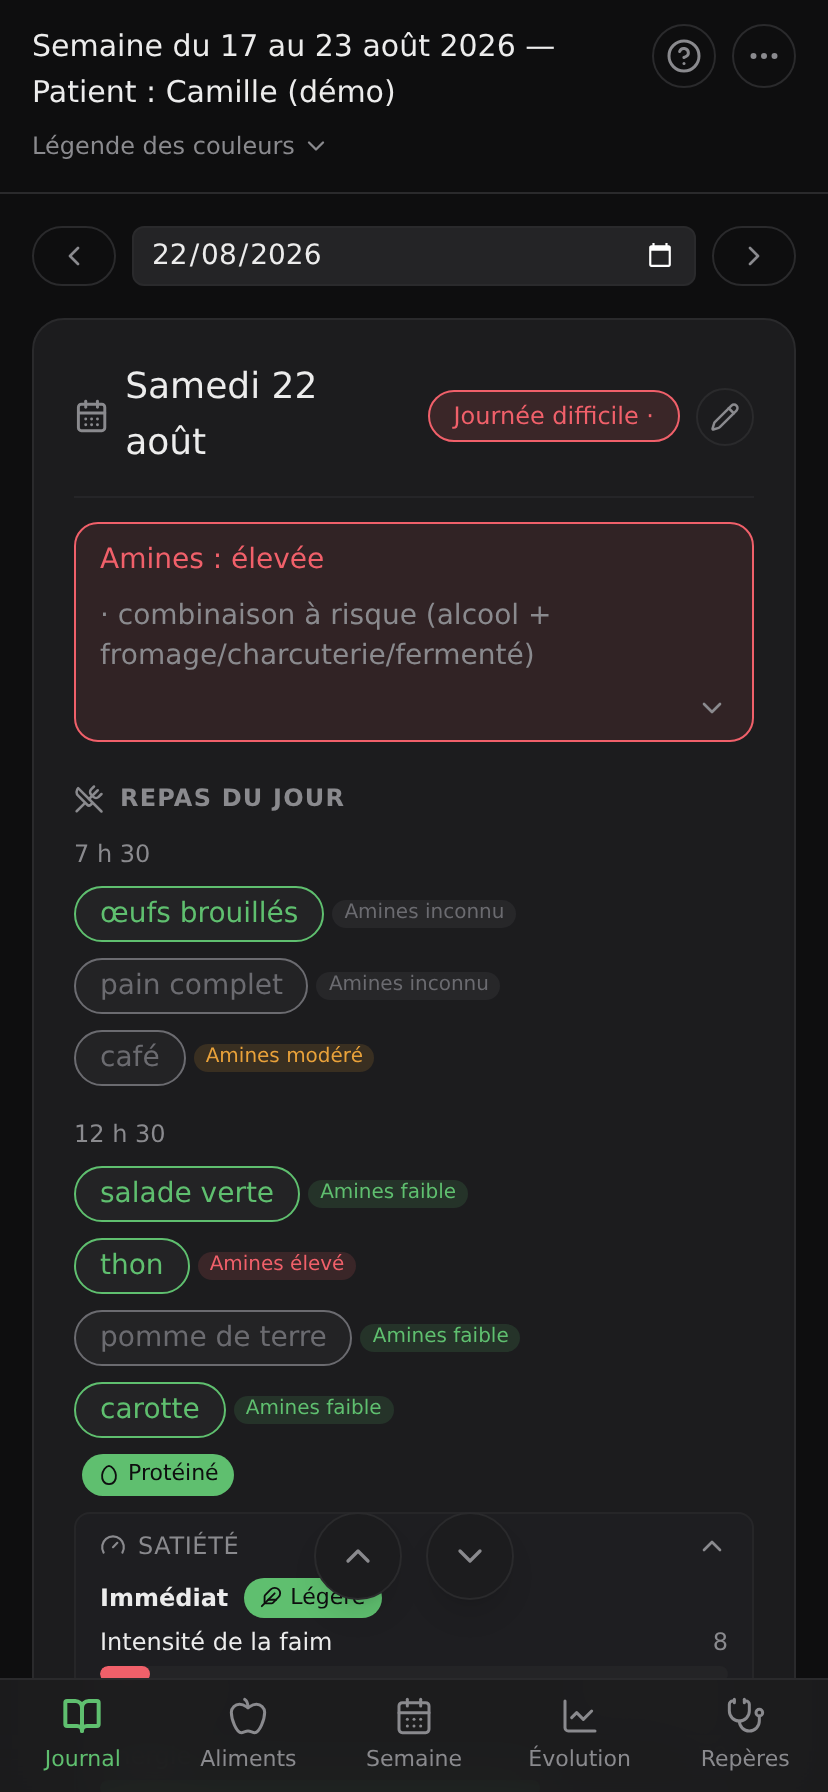
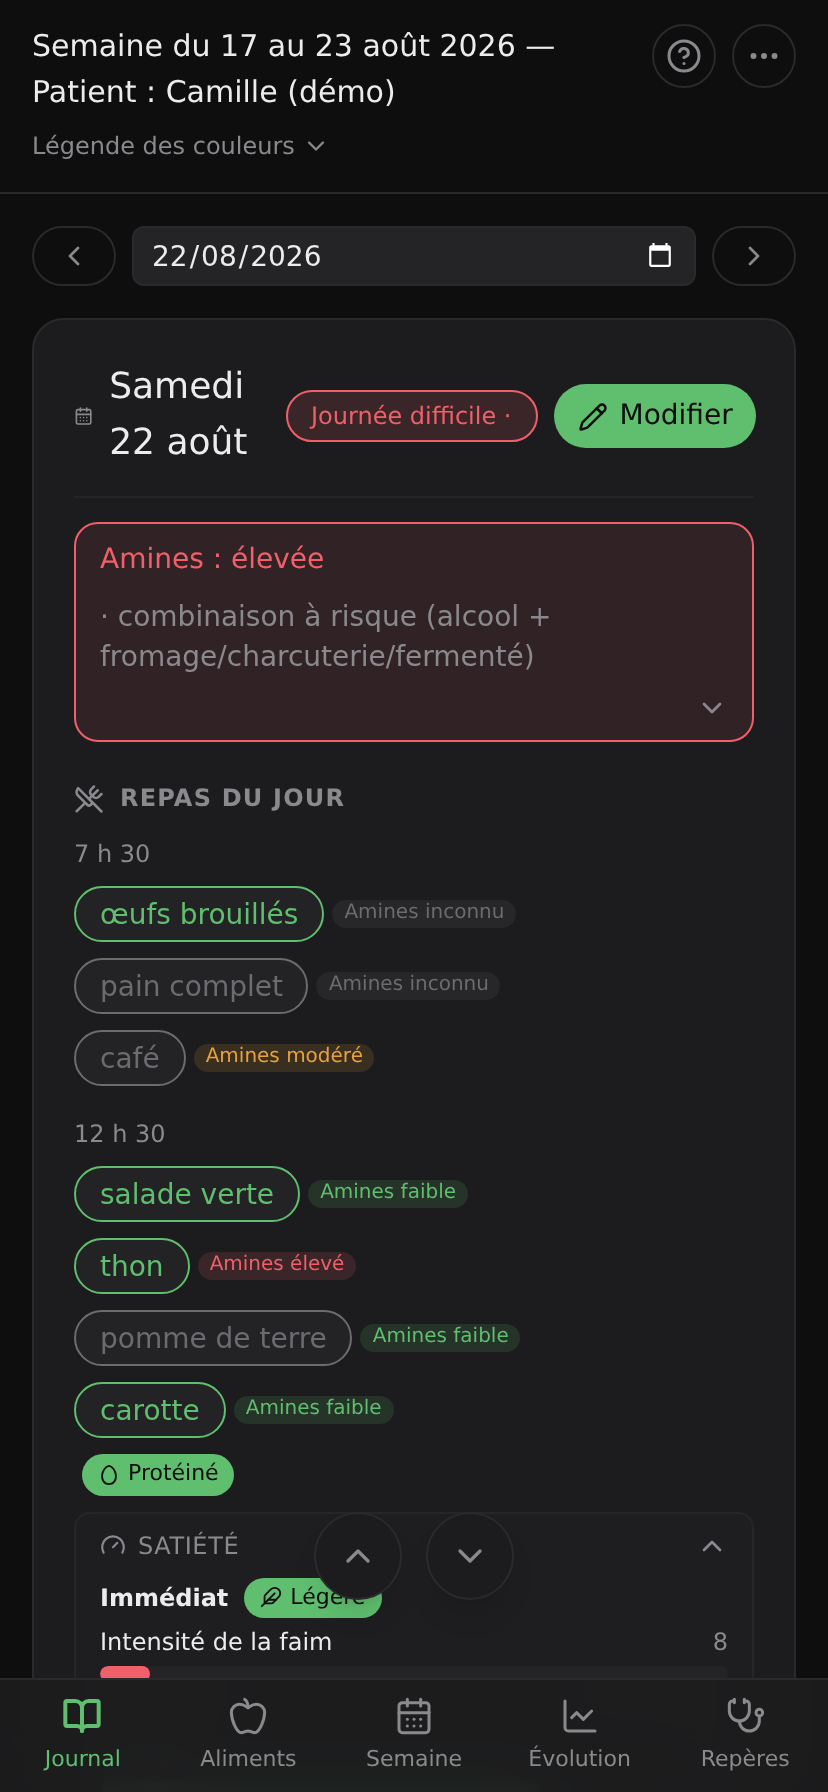
docs : couvre « Effacer le journal », les mises à jour et le bouton Modifier
Les 7 commits arrivés en parallèle du moteur documentaire n'étaient pas couverts,
et la FAQ affirmait le contraire de l'un d'eux.

- **FAQ — « Comment réinitialiser l'application ? »** répondait qu'il n'existe pas
  de bouton « tout effacer ». C'est faux depuis « Effacer le journal », et c'est
  une réponse dangereuse sur une action destructive. Remplacée par un tableau des
  trois niveaux : effacer le journal / recharger la démo / effacer les données du
  site, avec ce que chacun supprime réellement.
- **Effacer le journal** documenté (journées + analyses de journées + rapports de
  période ; profil, aliments, favoris, traitements, réintroductions et modèles
  conservés) : sauvegarde & restauration, données & confidentialité, menu du guide.
- **Mises à jour** : les trois déclencheurs (ouverture, revérification horaire,
  bouton « Vérifier les mises à jour »), les trois messages possibles, et où lire
  la version installée. Le dépannage commençait par « fermez l'application » alors
  qu'un bouton fait désormais exactement cela ; le support et le dépannage ne
  citent plus un numéro de version figé mais l'endroit où le lire.
- **Bouton « Modifier »** remplace le crayon dans toutes les procédures (guide du
  Journal, bien démarrer, fiche du journal quotidien).
- **Modèles de repas** : remplissage d'un repas déjà ouvert quelle que soit son
  heure (anti-doublon, heure conservée) et accès direct à « Modifier les modèles… ».
[…]

diff --git a/docs/troubleshooting/mise-a-jour-bloquee.md b/docs/troubleshooting/mise-a-jour-bloquee.md
@@ -7,21 +7,29 @@ figée dans une version antérieure.
 
 ## Causes possibles
 
-- Le service worker sert encore la version en cache : la nouvelle est téléchargée mais
-  ne s'active qu'au prochain **démarrage complet**.
-- L'application n'a jamais été fermée (onglet ou fenêtre maintenu ouvert).
+- L'application n'a pas encore revérifié : la vérification automatique a lieu à
+  l'ouverture, puis **toutes les heures** pour un onglet resté ouvert.
 - Pas de réseau depuis la publication de la nouvelle version.
+- Le service worker sert encore la version en cache.
 
 ## Diagnostic
 
-Comparez la version attendue avec celle de l'application. Vérifiez que vous avez été
-connecté au moins une fois depuis la publication.
+Ouvrez **Menu `⋯`** : la ligne au-dessus du bouton de mise à jour affiche la **version
+installée** et sa **date**. Comparez-la à la version attendue.
 
 ## Solution
 
-1. Fermez **complètement** l'application : toutes les fenêtres et tous les onglets, y
-   compris l'application installée sur l'écran d'accueil.
-2. Rouvrez-la avec une connexion active.
+1. **Menu `⋯` → Vérifier les mises à jour.** L'application répond :
+
+| Message | Sens |
+|---|---|
+| `Nouvelle version trouvée, installation…` | La mise à jour s'installe et s'applique seule |
+| `Vous avez déjà la dernière version.` | Rien à faire |
+| `Vérification indisponible (app non installée hors-ligne).` | Le service worker n'est pas actif — rechargez la page |
+
+2. Si cela ne suffit pas, fermez **complètement** l'application : toutes les fenêtres et
+   tous les onglets, y compris celle installée sur l'écran d'accueil, puis rouvrez-la
+   avec une connexion active.
 3. Si nécessaire, rechargez en forçant le contournement du cache
    (`Ctrl`/`Cmd` + `Maj` + `R` sur desktop).
 4. En dernier recours : effacez le cache du site **sans** effacer les données —

diff --git a/docs/getting-started/index.md b/docs/getting-started/index.md
@@ -96,7 +96,8 @@ Aucune permission n'est demandée au démarrage. Voir [Permissions](../permissio
 
 ## Première utilisation
 
-1. Onglet **Journal** → touchez le **crayon** en haut de la carte pour passer en édition.
+1. Onglet **Journal** → touchez le bouton vert **Modifier** en haut de la carte pour
+   passer en édition.
 2. **Ajouter un repas** → réglez l'heure, tapez un aliment puis `Entrée`.
    La couleur (🔴 pro‑candidose/SIBO, 🟢 bénéfique, ⚪ neutre) est devinée
    automatiquement et se change d'un toucher sur la chip.
@@ -113,11 +114,22 @@ Tout est enregistré automatiquement (pas de bouton « Enregistrer » pour le jo
 ## Mise à jour de l'application
 
 L'application se met à jour toute seule : le service worker télécharge la nouvelle
-version en arrière-plan et l'applique au prochain lancement complet
-(`registerType: 'autoUpdate'`). Vos données ne sont pas touchées par une mise à jour.
+version en arrière-plan et l'applique automatiquement. Vos données ne sont jamais
+touchées par une mise à jour.
 
-Si une nouvelle fonction annoncée n'apparaît pas : fermez complètement l'app puis
-rouvrez-la. Voir [Dépannage](../troubleshooting/mise-a-jour-bloquee.md).
+Trois déclencheurs :
+
+| Déclencheur | Quand |
+|---|---|
+| Ouverture de l'application | À chaque lancement |
+| Vérification périodique | Toutes les **heures**, pour un onglet resté ouvert longtemps |
+| **Menu `⋯` → Vérifier les mises à jour** | À votre demande |
+
+La ligne juste au-dessus de ce bouton affiche la **version installée** et sa **date de
+mise à jour** — utile pour vérifier que vous avez bien la dernière.
+
+Si une nouvelle fonction annoncée n'apparaît pas, voir
+[Dépannage](../troubleshooting/mise-a-jour-bloquee.md).
 
 ## Désinstallation
 

diff --git a/docs/versions/index.md b/docs/versions/index.md
@@ -15,6 +15,20 @@ Présent dans le code mais non encore publié sous un numéro de version :
 - **Récurrence des aliments** — tableau de l'écran Évolution sur une fenêtre glissante de
   30 jours (mentions, jours distincts, rythme, première → dernière date), avec regroupement
   des variantes proches. Voir [Récurrence des aliments](../features/recurrence-aliments.md).
+- **Effacer le journal** — Menu `⋯` : supprime toutes les journées et les analyses
+  associées, en conservant profil, aliments, favoris, traitements et modèles. Voir
+  [Sauvegarde & restauration](../features/sauvegarde-restauration.md#effacer-le-journal).
+- **Vérification des mises à jour** — version et date de mise à jour affichées dans le
+  menu, bouton **Vérifier les mises à jour**, et revérification automatique toutes les
+  heures pour un onglet resté ouvert. Voir
+  [Bien démarrer](../getting-started/index.md#mise-à-jour-de-lapplication).
+- **Bouton « Modifier » visible** dans le Journal, à la place du crayon discret.
+- **Modèles de repas** — un modèle peut désormais **remplir un repas déjà ouvert**, quelle
+  que soit son heure (sans dupliquer les aliments déjà présents), et la liste déroulante
+  donne un accès direct à **« Modifier les modèles… »**. Voir
+  [Modèles de repas](../features/modeles-de-repas.md).
+- **Documentation** — cette documentation et son moteur de génération
+  (`DOCUMENTATION_SPEC.md`, `docs/`, `npm run docs`).
 
 ---
 

diff --git a/docs/features/modeles-de-repas.md b/docs/features/modeles-de-repas.md
@@ -21,13 +21,23 @@ Aucun.
 - Depuis zéro : **Menu `⋯` → Modèles de repas** → nom du modèle, heure suggérée
   (facultative), aliments.
 
-**Utiliser un modèle** : Journal → mode édition → **Depuis un modèle** sous la section
-Repas → choisissez le modèle. Le repas est inséré avec des identifiants neufs : le
-modifier ensuite ne touche pas au modèle.
+**Créer un modèle** depuis un repas existant : en mode édition, le bouton
+**« Enregistrer comme modèle »** sous le repas.
+
+**Utiliser un modèle** — deux façons :
+
+| Voie | Effet |
+|---|---|
+| **Depuis un modèle**, sous la section Repas | Ajoute un **nouveau repas** à la journée, à l'heure suggérée du modèle |
+| **Depuis un modèle**, dans un repas déjà ouvert | **Remplit le repas courant** avec les aliments du modèle, **quelle que soit son heure**. L'heure du repas est conservée, et les aliments déjà présents ne sont pas dupliqués |
+
+Dans les deux cas, les aliments sont copiés avec des identifiants neufs : les modifier
+ensuite ne touche pas au modèle.
 
 ## Options
 
-- Modifier ou supprimer un modèle depuis **Menu `⋯` → Modèles de repas**.
+- Modifier ou supprimer un modèle depuis **Menu `⋯` → Modèles de repas**, ou directement
+  via **« Modifier les modèles… »** au bas de la liste déroulante « Depuis un modèle ».
 - Dans l'éditeur de modèle, un toucher sur une chip change sa catégorie de couleur.
 
 ## Paramètres associés

diff --git a/docs/reference/errors.md b/docs/reference/errors.md
@@ -80,6 +80,14 @@ Voir [Un import JSON est refusé](../troubleshooting/import-json-refuse.md).
 |---|---|---|
 | `Un problème est survenu au démarrage (tes données restent en sécurité). Détail : <nom> : <message>` | Erreur pendant l'initialisation de la base | [Erreur au démarrage](../troubleshooting/erreur-au-demarrage.md) |
 
+## Vérification des mises à jour
+
+| Message | Signification | Solution |
+|---|---|---|
+| `Nouvelle version trouvée, installation…` | Une mise à jour a été détectée ; elle s'installe et s'applique seule | Rien à faire |
+| `Vous avez déjà la dernière version.` | Aucune mise à jour disponible | Rien à faire |
+| `Vérification indisponible (app non installée hors-ligne).` | Le service worker n'est pas actif (page non rechargée depuis l'installation, ou navigateur sans service worker) | Rechargez la page ; voir [La mise à jour ne s'applique pas](../troubleshooting/mise-a-jour-bloquee.md) |
+
 ## Messages informatifs (pas des erreurs)
 
 | Message | Contexte |
@@ -93,3 +101,4 @@ Voir [Un import JSON est refusé](../troubleshooting/import-json-refuse.md).
 | `Sauvegarde téléchargée. Conservez ce fichier en lieu sûr.` | Menu |
 | `Import réussi. Données remplacées.` | Menu |
 | `Données de démo réinitialisées.` | Menu |
+| `Journal effacé.` | Menu — après **Effacer le journal** |

diff --git a/docs/guide/journal.md b/docs/guide/journal.md
@@ -27,7 +27,7 @@ démarrage.
 | Élément | Rôle |
 |---|---|
 | **Badge de qualité** (à gauche du titre) | 🟢 bonne / 🟠 correcte / 🔴 difficile. Proposé automatiquement d'après le cumul des symptômes, **modifiable d'un toucher** |
-| **Crayon** (à droite) | Bascule lecture ⇄ édition |
+| **Modifier** / **Terminer** (bouton vert, à droite) | Bascule lecture ⇄ édition |
 | **Charge en amines** | Résumé du jour (faible / modérée / élevée), avec le détail des aliments concernés au toucher |
 | **Repas du jour** | Un bloc par repas |
 | **Symptômes** | Symptômes de niveau *journée* (indépendants des repas) + champ « Moment » |
@@ -55,7 +55,7 @@ démarrage.
 
 | Action | Résultat |
 |---|---|
-| Toucher le crayon | La carte passe en édition ; les champs deviennent modifiables |
+| Toucher **Modifier** | La carte passe en édition ; les champs deviennent modifiables. Le bouton devient **Terminer** |
 | Ajouter/modifier n'importe quoi | **Sauvegarde automatique** (écriture différée dans IndexedDB), pas de bouton *Enregistrer* |
 | Toucher une chip d'aliment **en lecture** | Ouvre la [fiche d'analyse de l'aliment](../features/analyse-aliment-ia.md) |
 | Toucher une chip d'aliment **en édition** | Change sa catégorie de couleur |

diff --git a/docs/faq/index.md b/docs/faq/index.md
@@ -179,9 +179,15 @@ l'application. La suppression est définitive.
 
 ### Comment réinitialiser l'application ?
 
-Il n'y a pas de bouton « tout effacer » dans l'interface. **Menu `⋯` → Données de démo**
-recharge les deux journées d'exemple (et écrase ces dates uniquement). Pour repartir
-totalement de zéro, effacez les données du site.
+Trois niveaux, du plus doux au plus radical :
+
+| Ce que vous voulez | Comment | Ce qui disparaît |
+|---|---|---|
+| Repartir d'un journal vide | Menu `⋯` → **Effacer le journal** | Toutes les journées, les analyses de journées et les rapports de période. Profil, aliments, favoris, traitements, réintroductions et modèles sont **conservés** |
+| Retrouver les journées d'exemple | Menu `⋯` → **Données de démo** | Rien d'autre : seules les deux dates de démonstration sont écrasées |
+| Tout remettre à zéro | Effacer les données du site dans le navigateur | **Tout**, sans exception |
+
+Sauvegardez avant : aucune de ces actions n'est réversible.
 
 ### Que reçoit Open Food Facts ?
 

diff --git a/docs/guide/index.md b/docs/guide/index.md
@@ -61,6 +61,8 @@ Toutes les fonctions transverses sont regroupées dans le menu de l'en-tête.
 | **Restaurer (JSON)** | Remplace toutes les données par un fichier de sauvegarde |
 | **Exporter PDF** | Impression de l'écran courant (`window.print()`) |
 | **Données de démo** | Recharge les 2 journées d'exemple (écrase ces dates) |
+| **Effacer le journal** | Supprime **toutes** les journées et les analyses associées — [détail](../features/sauvegarde-restauration.md#effacer-le-journal) |
+| **Vérifier les mises à jour** | Force la recherche d'une nouvelle version ; la ligne au-dessus affiche la version installée et sa date |
 | **Assistant IA (OpenRouter)** | [Paramètres IA](../settings/index.md#assistant-ia-openrouter) |
 | **Revoir le tutoriel & les visites guidées** | Réinitialise tutoriel et visites guidées |
 | **Dossier médical** | [Dossier médical imprimable](../features/dossier-medical.md) |

diff --git a/docs/features/sauvegarde-restauration.md b/docs/features/sauvegarde-restauration.md
@@ -41,6 +41,16 @@ jamais eu lieu). Il propose un bouton **Sauvegarder** et une croix pour le masqu
 **Menu `⋯` → Exporter PDF** lance l'impression de l'écran courant. Pour un document
 structuré, préférez le [dossier médical](dossier-medical.md).
 
+### Effacer le journal
+
+**Menu `⋯` → Effacer le journal** supprime **toutes les journées**, ainsi que les
+**analyses IA de journées** et les **rapports de période** en cache. Une confirmation
+prévient que l'action est irréversible et invite à sauvegarder d'abord.
+
+Ce qui **reste** : votre profil santé, vos fiches d'aliments analysées, vos favoris, vos
+traitements, vos réintroductions, vos modèles de repas et vos réglages. Pour tout
+supprimer, effacez les données du site dans le navigateur.
+
 ### Données de démo
 
 **Menu `⋯` → Données de démo** recharge les deux journées d'exemple (9 juin 2025).

diff --git a/README.md b/README.md
@@ -110,7 +110,9 @@ PWA mobile-first, **100 % hors-ligne**, installable sur téléphone, déployable
 - 💡 **Aide & visite guidée** — bouton `?` par écran, astuces contextuelles, tutoriel au 1er lancement,
   et **visite guidée par écran** : des bulles explicatives **ancrées aux éléments** se lancent à la
   première arrivée sur chaque écran (rejouables depuis l'aide).
-- 💾 **Export / Import JSON** complet, **export PDF** de la semaine.
+- 💾 **Export / Import JSON** complet, **export PDF** de la semaine, **« Effacer le journal »**
+  (journées + analyses, le reste conservé) et **vérification des mises à jour** (version + date
+  affichées dans le menu, revérification automatique toutes les heures).
 
 ## 🤖 Assistant IA (OpenRouter) — optionnel
 

diff --git a/docs/data/index.md b/docs/data/index.md
@@ -73,6 +73,7 @@ les conserve. Digestor ne supprime jamais de journée de lui-même.
 | Une analyse d'aliment | Écran Aliments → icône **gomme** |
 | Un aliment partout (analyse, favori, **et toutes ses occurrences dans les repas**) | Écran Aliments → icône **corbeille** (confirmation explicite) |
 | Un repas, un traitement, une réintroduction, un modèle | Icône corbeille de la ligne |
+| **Tout le journal** (journées + analyses de journées + rapports de période) | Menu `⋯` → **Effacer le journal** (confirmation, irréversible) |
 | **Tout** | Effacez les données du site dans les réglages du navigateur, ou désinstallez l'application |
 
 ⚠ La suppression est **définitive** : il n'y a pas de corbeille ni de restauration

diff --git a/docs/troubleshooting/index.md b/docs/troubleshooting/index.md
@@ -16,7 +16,7 @@ diagnostic, solution, et quoi faire si le problème persiste.
 
 ## Informations à fournir au support
 
-Quel que soit le problème, préparez : la **version** de l'application (0.15.2),
-l'**appareil**, le **système**, le **navigateur** et sa version, le **message d'erreur**
+Quel que soit le problème, préparez : la **version** de l'application (affichée dans
+**Menu `⋯`**, au-dessus de « Vérifier les mises à jour »), l'**appareil**, le **système**, le **navigateur** et sa version, le **message d'erreur**
 exact, l'**état du réseau**, et les **étapes** qui reproduisent le problème.
 Voir [Support](../support/index.md).
